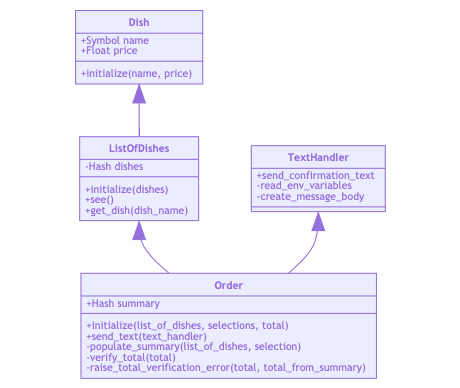
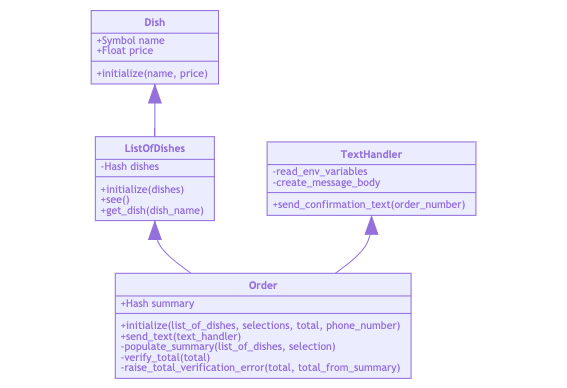
Remove experiment Selection class, tidy up
An experimental Selection class was removed, and the README was
altered to add an updated diagram.

diff --git a/spec/order_spec.rb b/spec/order_spec.rb
@@ -1,6 +1,3 @@
-require 'dotenv'
-Dotenv.load('./twilio_credentials.env')
-
 require 'order'
 
 describe Order do
